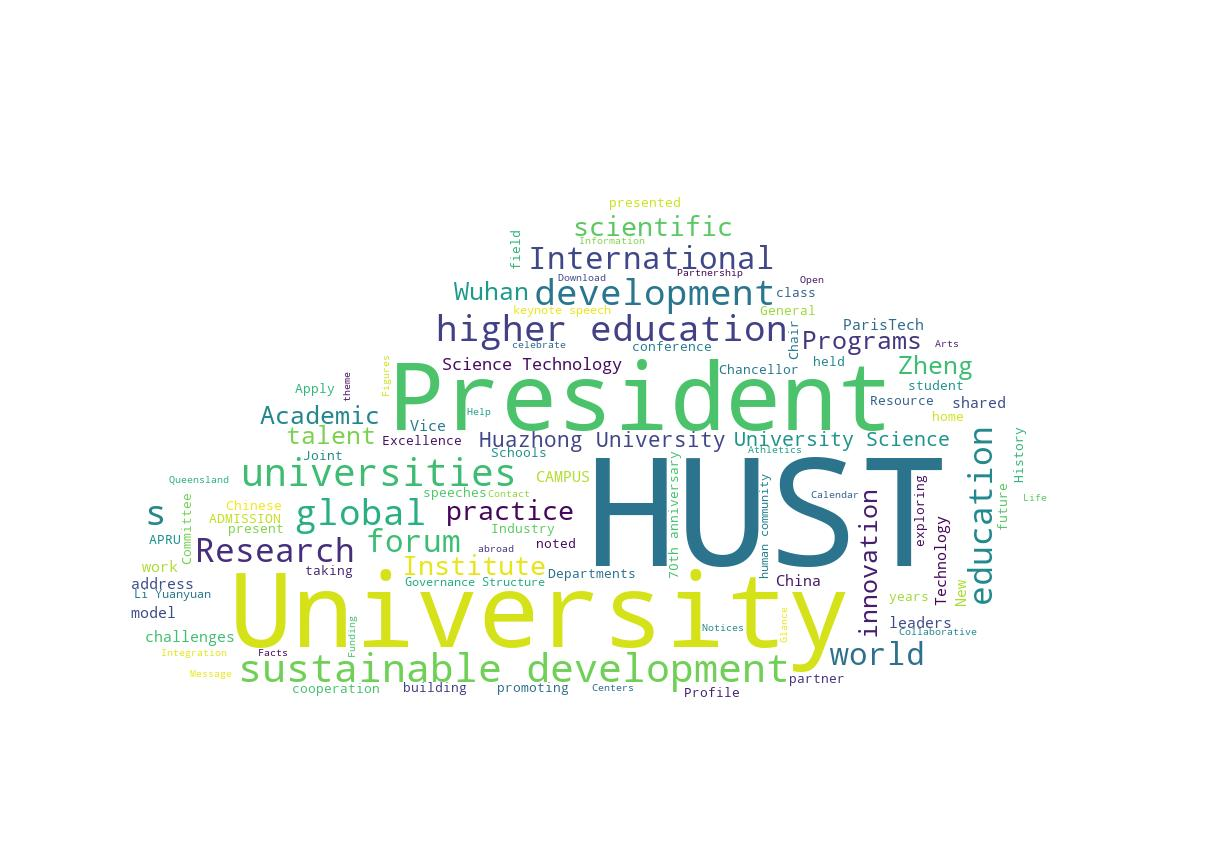
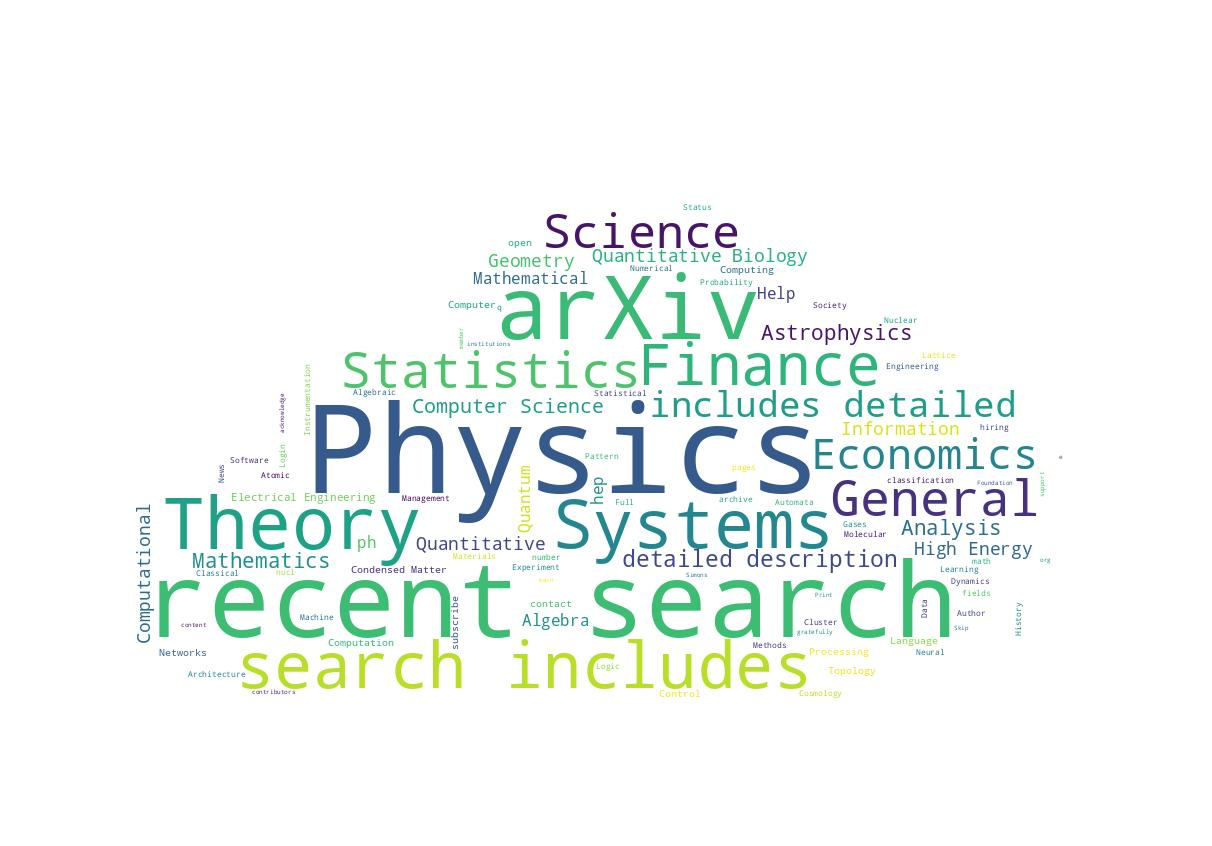
feat: Update api.

Changed region(s): [[0.0916, 0.2151, 0.8548, 0.8298]]

diff --git a/app.py b/app.py
@@ -14,10 +14,11 @@ app = Flask(__name__)
 
 SAVE_PATH = "./static/result.jpg"
 # URL = "http://english.hust.edu.cn/info/1102/3415.htm"
-URL = "http://english.hust.edu.cn/info/1102/3410.htm"
+URL = "https://arxiv.org/"
 
 @app.route("/")
 def index():
+    # 1. get data from static file
     data = [
         {
             "timestamp": "2022/10/27",
@@ -40,13 +41,39 @@ def index():
             "info": "咿咿呀呀嗷嗷",
         }
     ]
-
+    
+    # 2. get data from local api
+    # import requests
+    # url = "http://127.0.0.1:5000/random"
+    # response = requests.get(url)
+    # data = response.json()
+    
     text = get_document_data(URL)
     generate_wordcloud(text, SAVE_PATH)
     response = make_response(send_file(SAVE_PATH))
     response.headers["Content-Disposition"] = "attachment; filename=result.jpg;"
 
     return render_template('index.html',data=data)
+
+@app.route("/random")
+def random():
+    import time
+    dataItem = {
+        "timestamp": "",
+        "title": "",
+        "info": "",
+    }
+    
+    # generate random data with dataItem structure
+    dataList = []
+    for i in range(10):
+        dataItem["timestamp"] = time.strftime("%Y/%m/%d", time.localtime())
+        dataItem["title"] = "title" + str(i)
+        dataItem["info"] = "info" + str(i)
+        
+        dataList.append(dataItem)
+    
+    return dataList
 
 def generate_wordcloud(text, save_path):
     """

diff --git a/README.md b/README.md
@@ -1,1 +1,64 @@
 # HUST 双创美团俱乐部 讲座Demo
+
+- 日志
+
+```log
+asklv@asklvdeMacBook-Pro simple-timeline % docker build -t simple-timeline . --no-cache
+[+] Building 615.3s (12/12) FINISHED                                                                                           
+ => [internal] load build definition from Dockerfile                                                                      0.0s
+ => => transferring dockerfile: 37B                                                                                       0.0s
+ => [internal] load .dockerignore                                                                                         0.0s
+ => => transferring context: 2B                                                                                           0.0s
+ => [internal] load metadata for docker.io/library/python:3.7                                                             1.9s
+ => [1/8] FROM docker.io/library/python:3.7@sha256:53e59319730a41a52e8b3c43bd114131c91ebc8689dcece363b796cb4e623cc1     264.9s
+ => => resolve docker.io/library/python:3.7@sha256:53e59319730a41a52e8b3c43bd114131c91ebc8689dcece363b796cb4e623cc1       0.0s
+ => => sha256:8e1d92e7d04d2a9a9880cb45dc3c32c2805912cd86abed96d0ada3ff28748205 53.70MB / 53.70MB                        127.5s
+ => => sha256:cc9731f4e3bc3680179c10cece663cf0cfe0488918d6795406f4b76f07b787de 10.87MB / 10.87MB                         48.5s
+ => => sha256:53e59319730a41a52e8b3c43bd114131c91ebc8689dcece363b796cb4e623cc1 1.86kB / 1.86kB                            0.0s
+ => => sha256:8491a634da5f8f5b18682acc9b58dc94ff6efbace472961bb7b94ca0cf229679 9.21kB / 9.21kB                            0.0s
+ => => sha256:3a0ac2b0e1189417ece5c0d457849b7998e487bf0e76dc751745596eefbb249c 2.22kB / 2.22kB                            0.0s
+ => => sha256:66eadbf427bb41b3e329a95935c65b09c6d3b7a9c2fa8e08417e497df02ed996 5.15MB / 5.15MB                           44.8s
+ => => sha256:d337cb12fd7c6fe341850cd38e880f1806d49a65832c9804b06d00f9032382e0 54.68MB / 54.68MB                        192.5s
+ => => sha256:a719597fe1ca78e1dc4c43fffc424754228514a791abcb0e0c06302ad022b8ca 189.76MB / 189.76MB                      259.0s
+ => => extracting sha256:8e1d92e7d04d2a9a9880cb45dc3c32c2805912cd86abed96d0ada3ff28748205                                 1.3s
+ => => sha256:615a38af28944585618687da29a81ab818abc011101dd3c50ef98c17a1c23b80 6.41MB / 6.41MB                          150.6s
+ => => extracting sha256:66eadbf427bb41b3e329a95935c65b09c6d3b7a9c2fa8e08417e497df02ed996                                 0.1s
+ => => extracting sha256:cc9731f4e3bc3680179c10cece663cf0cfe0488918d6795406f4b76f07b787de                                 0.2s
+ => => sha256:eab4e136bce52593ffa87e5b1195398a6dfb8f31ad286fe37d15f8eadbe89625 15.23MB / 15.23MB                        164.7s
+ => => sha256:f3da12d7049e3a6908f8bc76e9b643fdcdbaa463ba27dbc02bc9b55ceded2bad 233B / 233B                              166.4s
+ => => sha256:f48fe35f6010761df542798db6efe87cafd51fcf00df46b0849afc2f2aa71226 2.89MB / 2.89MB                          175.8s
+ => => extracting sha256:d337cb12fd7c6fe341850cd38e880f1806d49a65832c9804b06d00f9032382e0                                 1.5s
+ => => extracting sha256:a719597fe1ca78e1dc4c43fffc424754228514a791abcb0e0c06302ad022b8ca                                 4.7s
+ => => extracting sha256:615a38af28944585618687da29a81ab818abc011101dd3c50ef98c17a1c23b80                                 0.2s
+ => => extracting sha256:eab4e136bce52593ffa87e5b1195398a6dfb8f31ad286fe37d15f8eadbe89625                                 0.4s
+ => => extracting sha256:f3da12d7049e3a6908f8bc76e9b643fdcdbaa463ba27dbc02bc9b55ceded2bad                                 0.0s
+ => => extracting sha256:f48fe35f6010761df542798db6efe87cafd51fcf00df46b0849afc2f2aa71226                                 0.1s
+ => [2/8] WORKDIR /HUST                                                                                                   0.6s
+ => [3/8] RUN ln -s -f /usr/share/zoneinfo/Asia/Shanghai /etc/localtime                                                   0.2s
+ => [4/8] WORKDIR /HUST                                                                                                   0.0s
+ => [5/8] RUN git clone https://github.91chi.fun/https://github.com/IRONICBo/simple-timeline.git                          3.8s
+ => [6/8] WORKDIR /HUST/simple-timeline                                                                                   0.0s
+ => [7/8] RUN pip install -i https://pypi.tuna.tsinghua.edu.cn/simple --upgrade pip                                       9.6s
+ => [8/8] RUN pip install -i https://pypi.tuna.tsinghua.edu.cn/simple -r requirements.txt                               333.5s
+ => exporting to image                                                                                                    0.7s
+ => => exporting layers                                                                                                   0.7s
+ => => writing image sha256:929fb3d45d188313f5cf812724687d3f438ae1e0d8463112fd37e617552593e4                              0.0s
+ => => naming to docker.io/library/simple-timeline                                                                        0.0s
+
+Use 'docker scan' to run Snyk tests against images to find vulnerabilities and learn how to fix them
+```
+
+- info
+
+```bash
+docker run -p 5001:5000 -p 7001:7000 simple-timeline
+```
+
+```bash
+apt update # 更新源
+apt install vim
+```
+
+```bash
+flask run -p 7000 -h 0.0.0.0 # 新端口运行
+```
